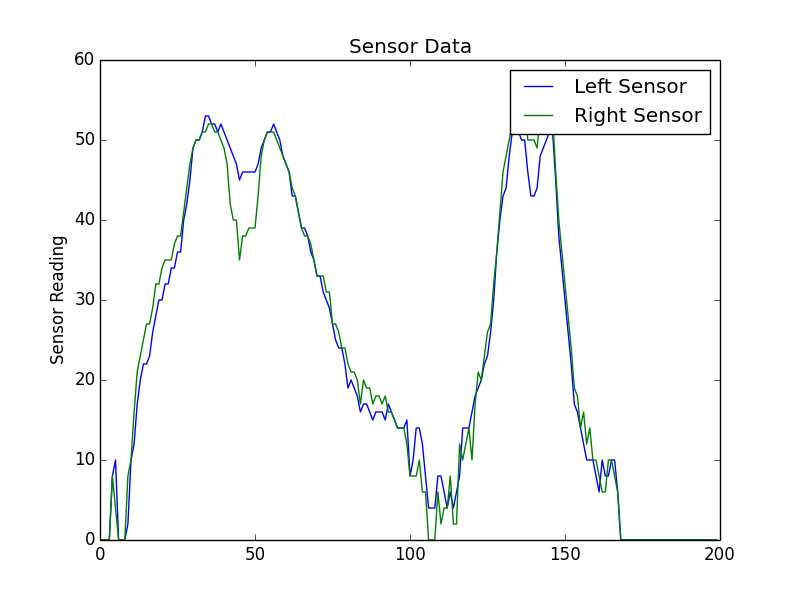
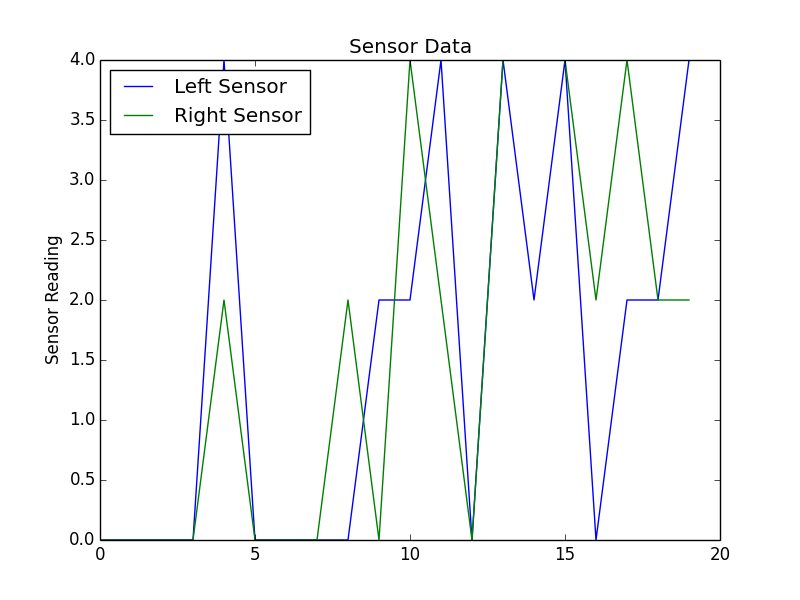
Working on python implementation of the network

diff --git a/Python Land/Sensor Tensing/Sensor Graph.py b/Python Land/Sensor Tensing/Sensor Graph.py
@@ -16,6 +16,8 @@ def graphit(robotList):
         for robot in robotList:
             if robot:
                 count += 1
+                robot.set_wheel(0,10)
+                robot.set_wheel(1,12)
 
                 prox = (robot.get_proximity(0),robot.get_proximity(1))
                 print("Prox L: " + str(prox[0]) + "\tProx R: " + str(prox[1]))
@@ -23,7 +25,7 @@ def graphit(robotList):
                 proxL.append(prox[0])
                 proxR.append(prox[1])
 
-                if count %200 == 0:
+                if count %20 == 0:
                     count = 0
                     superCount += 1
                     fig = plt.figure()
@@ -31,7 +33,7 @@ def graphit(robotList):
                     plt.ylabel("Sensor Reading")
                     plt.plot(proxL, label='Left Sensor')
                     plt.plot(proxR, label='Right Sensor')
-                    plt.legend()
+                    plt.legend(loc=2)
                     fig.savefig("Fig: " + str(superCount))
                     # plt.show()
 

diff --git a/Python Land/networkReader.py b/Python Land/networkReader.py
@@ -1,0 +1,28 @@
+import json
+
+def getNetworkFromFile(file):
+	"""
+	file = open(file,"r")
+	netJson = file.read()
+	netList = json.loads(netJson)
+	"""
+	#netList in form [fromNode, toNode, wieght]
+	netList = [[0,1,0.345],[0,3,0.234],[1,2,-234]]
+	weightDict = {}
+	nodes = set()
+	for netItem in netList:
+		nodes.add(netItem[0])
+		nodes.add(netItem[1])
+		if netItem[0] not in weightDict.keys():
+			weightDict[netItem[0]] = {netItem[1]:netItem[2]}
+		else:
+			weightDict[netItem[0]][netItem[1]] = netItem[2]
+	print weightDict
+	print(nodes)
+
+	activations = {}
+	for i in nodes:
+		print(i)
+
+if __name__ == "__main__":
+	getNetworkFromFile("Test.json")
